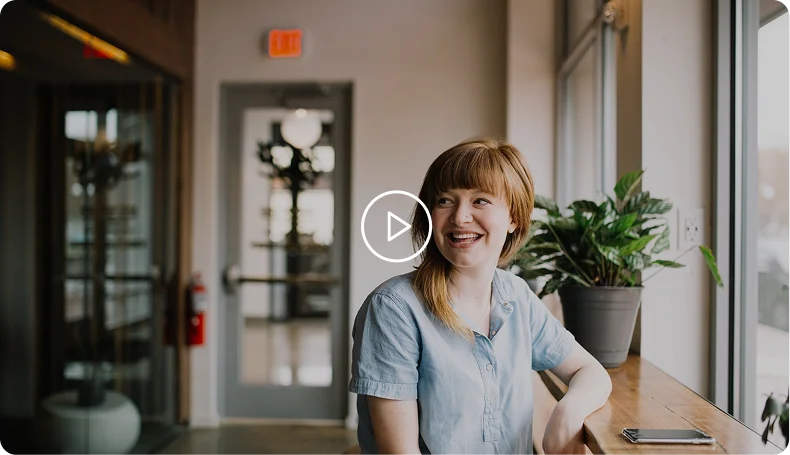
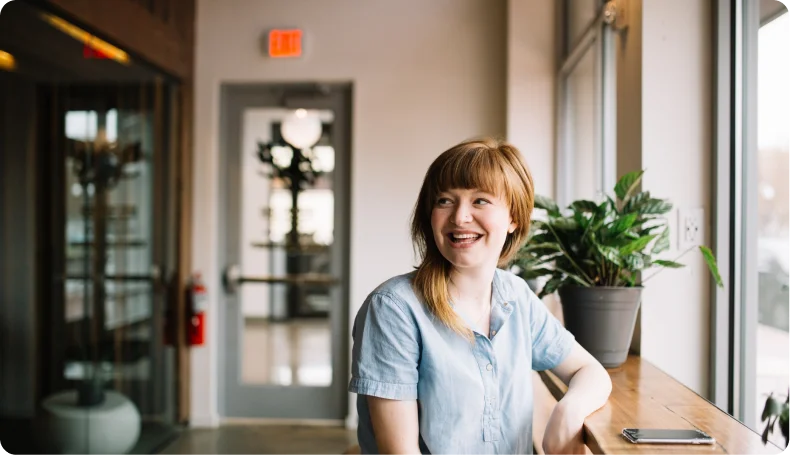
success section

diff --git a/styles/success.css b/styles/success.css
@@ -1,0 +1,95 @@
+.success {
+    background-color: var(--co-dark-green);
+}
+
+.success__wrapper {
+    padding: 220px 0;
+    display: flex;
+    justify-content: space-between;
+    align-items: start;
+    flex-wrap: wrap-reverse;
+    gap: 40px;
+}
+
+.success__content {
+    margin: 50px 0 0 0;
+    max-width: 550px;
+    display: flex;
+    flex-direction: column;
+    justify-content: start;
+    align-items: start;
+    gap: 20px;
+}
+
+.success__title {
+    font-size: 50px;
+    font-weight: 700;
+    color: var(--co-white);
+}
+
+.success__desc {
+    font-size: 25px;
+    font-weight: 600;
+    color: var(--co-white);
+}
+
+.success__content .btn {
+    margin: 50px 0 0 0;
+    width: 240px;
+    height: 65px;
+}
+
+.success__content .btn:hover {
+    outline: 2px solid #fff;
+}
+
+.success__content-video {
+    max-width: 790px;
+    height: 455px;
+    position: relative;
+    border-radius: 16px;
+}
+
+.success__img {
+    width: 100%;
+    height: 100%;
+    object-fit: cover;
+}
+
+.success__play-icon {
+    position: absolute;
+    z-index: 1;
+    width: 72px;
+    height: 73px;
+    fill: var(--co-white);
+    top: 50%;
+    left: 50%;
+    translate: -50% -50%;
+}
+
+.success__play-icon:hover {
+    fill: var(--co-green);
+    cursor: pointer;
+}
+
+@media (max-width: 1370px) {
+    .success__wrapper {
+        justify-content: center;
+    }
+    .success__content {
+        text-align: center;
+        place-items: center start;
+    }
+}
+
+@media (max-width: 576px) {
+    .success__wrapper {
+        padding: 150px 0;
+    }
+    .success__title {
+        font-size: 32px;
+    }
+    .success__desc {
+        font-size: 20px;
+    }
+}

diff --git a/index.html b/index.html
@@ -94,6 +94,25 @@
                 </div>
             </div>
         </section>
+
+        <section class="success">
+            <div class="container">
+                <div class="success__wrapper">
+                    <div class="success__content">
+                        <h2 class="success__title">Let's hear about Kayla's success story</h2>
+                        <p class="success__desc">See how well Alivio works in a real customer’s life.</p>
+                        <button type="button" class="btn">Let's get started</button>
+                    </div>
+
+                    <div class="success__content-video">
+                        <img src="assets/webp/video_cover.webp" class="success__img" alt="">
+                        <svg class="success__play-icon">
+                            <use href="assets/sprites.svg#play-icon"></use>
+                        </svg>
+                    </div>
+                </div>
+            </div>
+        </section>
      </main>
 </body>
 </html>

diff --git a/styles/about.css b/styles/about.css
@@ -3,11 +3,11 @@
     background-color: var(--co-white);
 }
 
-.about__subtitle {
+/* .about__subtitle {
     font-size: 24px;
     font-weight: 600;
     color: var(--co-light-black);
-}
+} */
 
 .about__content {
     display: flex;

diff --git a/styles/card.css b/styles/card.css
@@ -63,6 +63,9 @@
     /* .card__title--right {
         align-self: center;
     }  */
+    .card__title--third::before {
+        left: -130px;
+    }
     .card__desc {
         font-size: 16px;
     }

diff --git a/index.css b/index.css
@@ -4,3 +4,4 @@
 @import url(styles/hero.css);
 @import url(styles/about.css);
 @import url(styles/card.css);
+@import url(styles/success.css);
